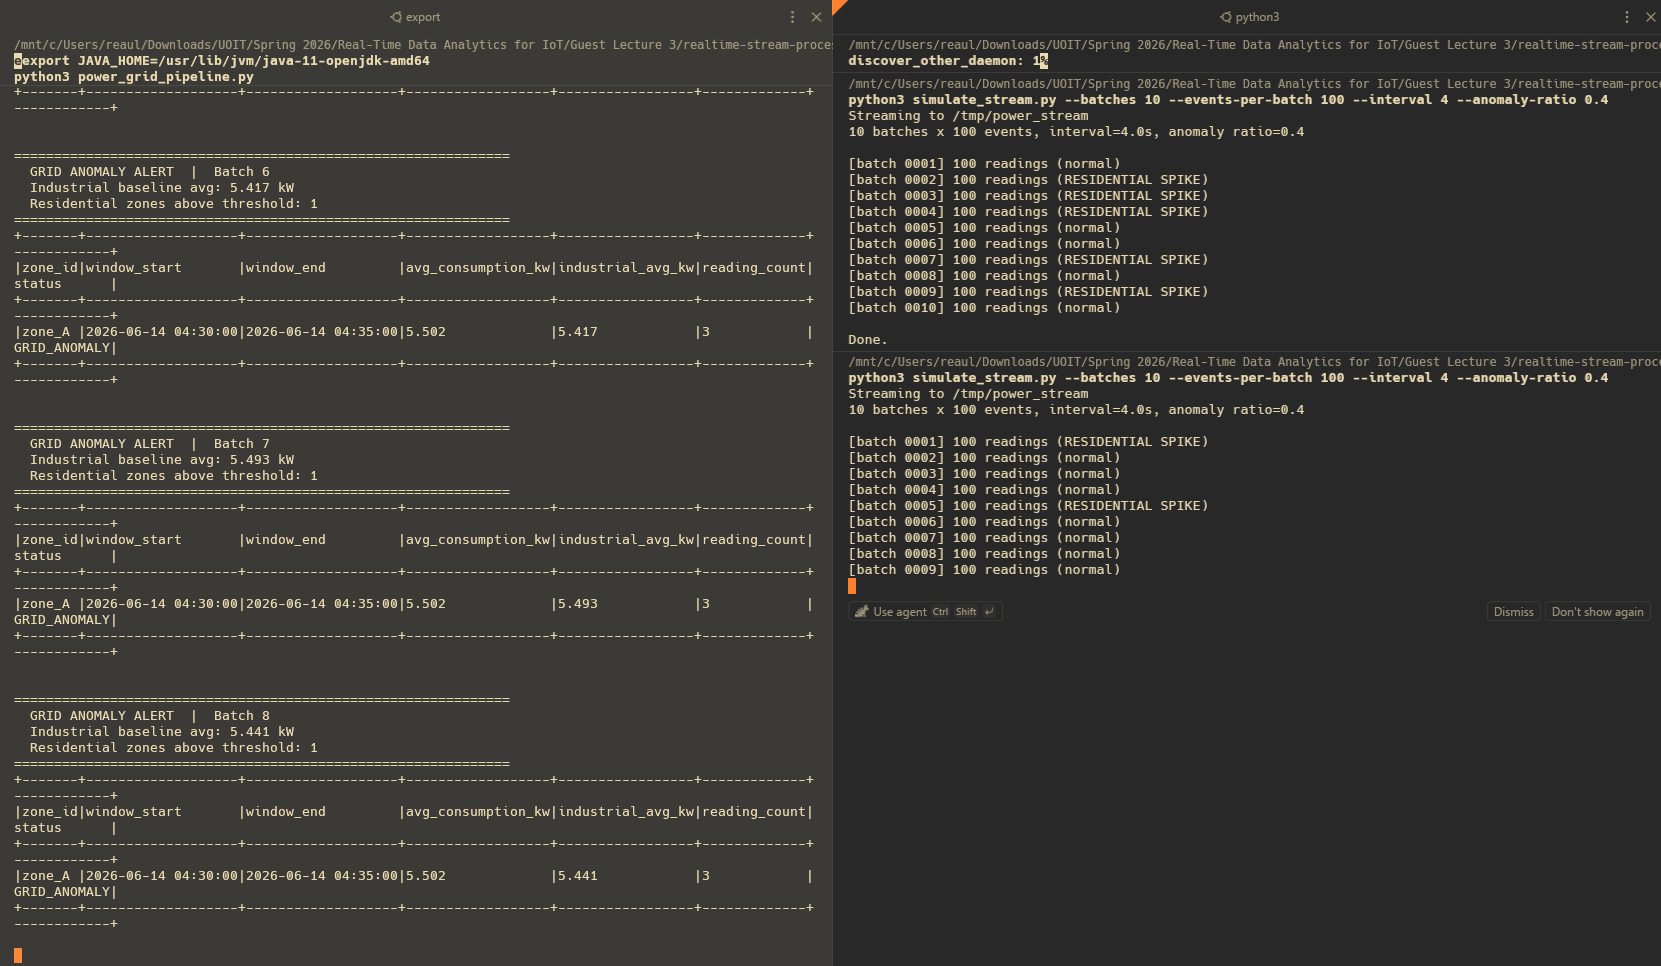
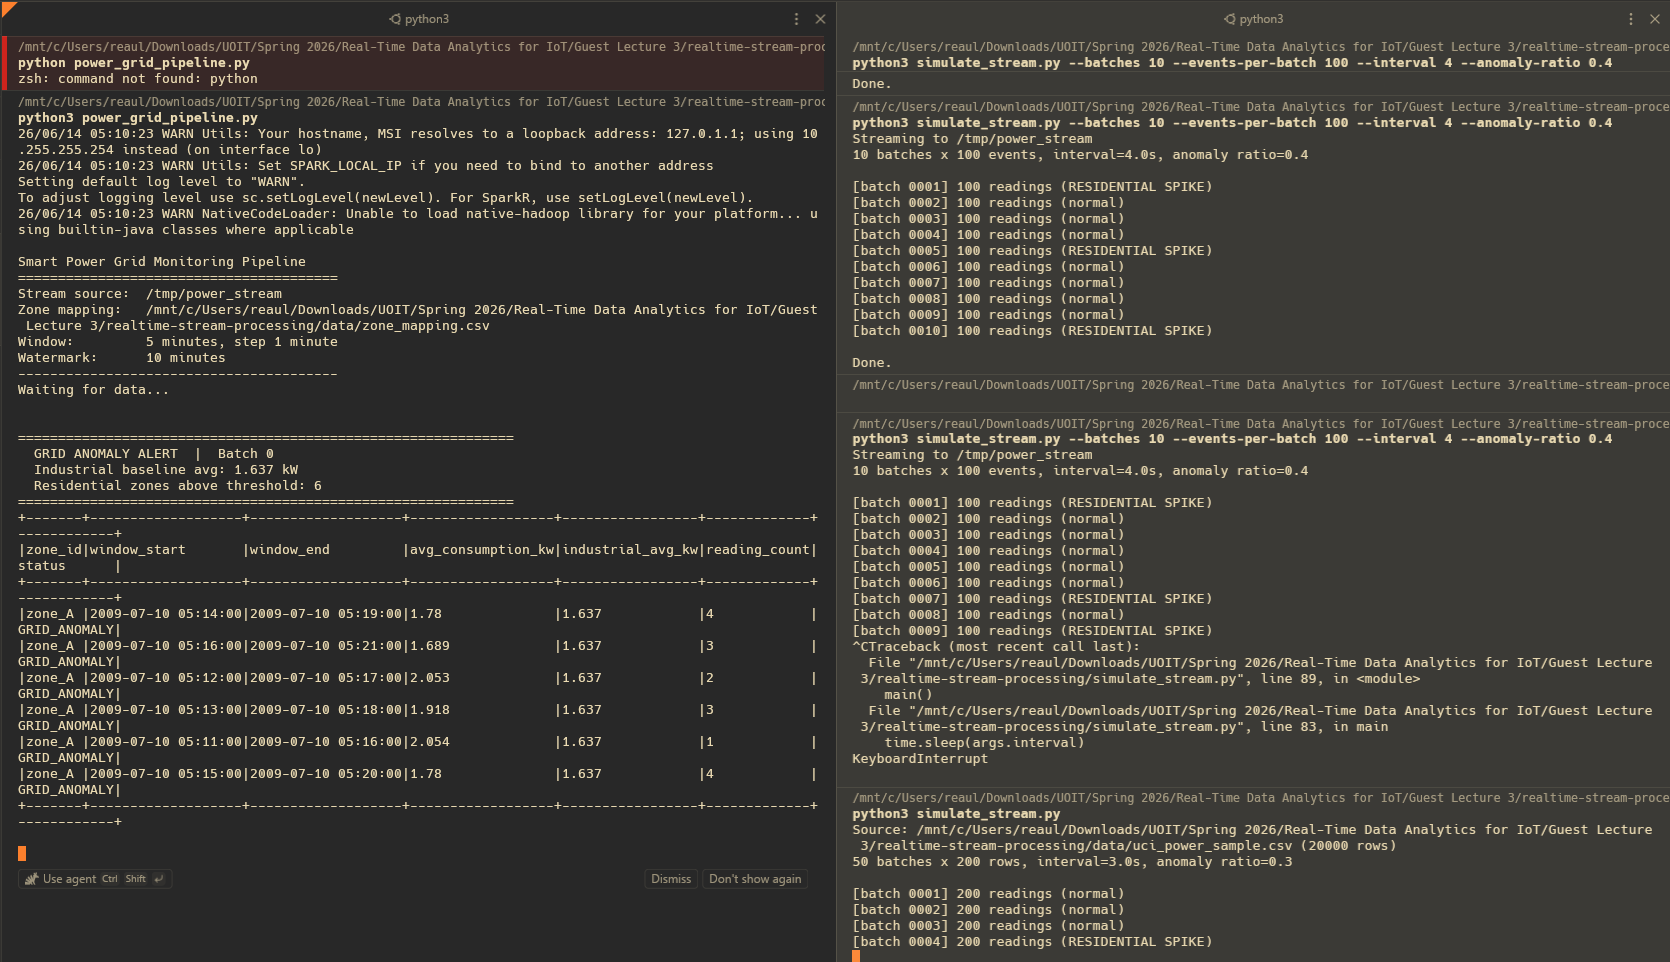
Update sample output and screenshots for real UCI data

diff --git a/README.md b/README.md
@@ -95,15 +95,15 @@ python simulate_stream.py --max-batches 0 --rows-per-batch 200 --interval 2
 
 ```
 ==============================================================
-  GRID ANOMALY ALERT  |  Batch 5
-  Industrial baseline avg: 5.412 kW
+  GRID ANOMALY ALERT  |  Batch 7
+  Industrial baseline avg: 1.637 kW
   Residential zones above threshold: 2
 ==============================================================
 +-------+-------------------+-------------------+------------------+-----------------+-------------+------------+
 |zone_id|window_start       |window_end         |avg_consumption_kw|industrial_avg_kw|reading_count|status      |
 +-------+-------------------+-------------------+------------------+-----------------+-------------+------------+
-|zone_A |2026-06-14 12:00:00|2026-06-14 12:05:00|7.234             |5.412            |14           |GRID_ANOMALY|
-|zone_B |2026-06-14 12:00:00|2026-06-14 12:05:00|6.891             |5.412            |11           |GRID_ANOMALY|
+|zone_A |2009-07-10 06:02:00|2009-07-10 06:07:00|4.219             |1.637            |4            |GRID_ANOMALY|
+|zone_B |2009-07-10 06:19:00|2009-07-10 06:24:00|4.222             |1.637            |1            |GRID_ANOMALY|
 +-------+-------------------+-------------------+------------------+-----------------+-------------+------------+
 ```
 
